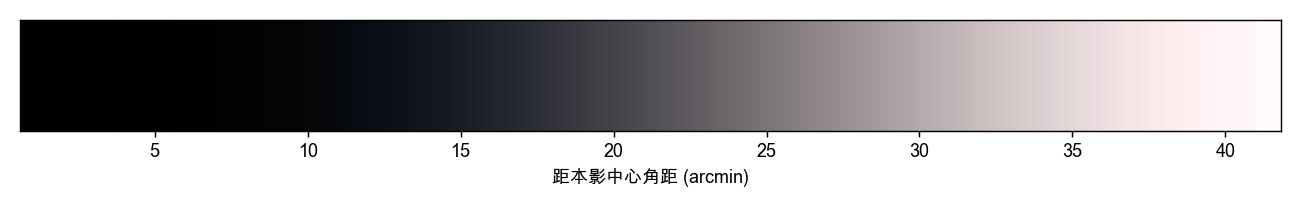
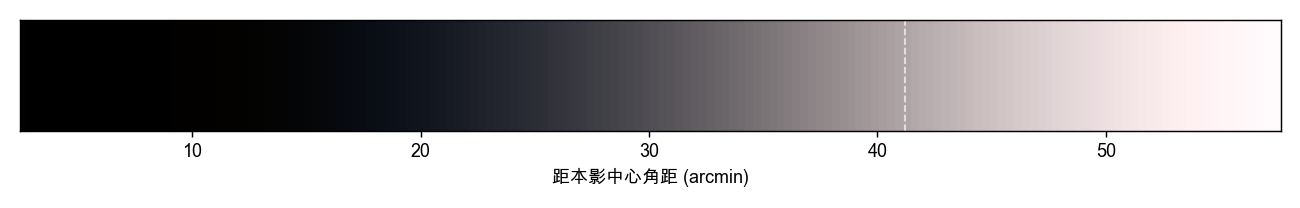
reassess绿松石无回归 + 视频tone map三panel独立 + plan落盘 + 清临时文件
- reassess: 改bug(连续半影/视频关聚焦)后绿松石带物理仍符合文献(R/B0.88), 亮度悬崖更强
  (蓝带窄结论更稳)。render_textured默认use_focus=True不受视频影响。见working.md续7
- 视频: 无floor三panel独立tone map(gamma+对数肩部), 重渲上传
- docs/tmp_plan.md: 四件事+用户三条SDR feedback(tone map太平/地球太亮/高光不饱和)落盘
- 清理临时调试图

待办(用户定序): 更新SDR解决tone map三问题→commit→多因素evaluation study

diff --git a/src/build_video.py b/src/build_video.py
@@ -41,25 +41,26 @@ EARTH_TEX = np.asarray(Image.open(_earth_p).convert("RGB"), float) / 255.0 if os
 R_MOON = R.R_MOON_ARCMIN
 R_UMBRA = R.R_UMBRA_ARCMIN
 
-def _panel_tonemap(rgb_lin, exposure, floor, white=1.0):
-    """每panel独立的SDR tone map(时间上全局定死,不per-frame)。
-    设计(用户方案): 暗部clip保底+亮部柔和压。
-      显示亮度 = floor + (1-floor)·Reinhard(E·Y/white) , 暗部至少抬到floor(可见)。
-      色相保持: 按亮度映射比缩放RGB。floor让最暗也>0可见; 亮部Reinhard软压不爆。
+def _panel_tonemap(rgb_lin, gamma, target):
+    """每panel独立的SDR tone map(无floor, 时间上全局定死, 不per-frame)。
+    旧版那套(对比好): 亮度幂律压缩 Y^gamma(收窄动态范围,保对比) + 对数高光肩部。
+    gamma 越小压得越狠(暗部越亮); target 是正常参考亮度映到的sRGB。
+    色相保持: 按亮度映射比缩放RGB。无floor→暗部自然暗, 保留spatial对比。
     """
     Y = np.maximum(0.2126*rgb_lin[...,0]+0.7152*rgb_lin[...,1]+0.0722*rgb_lin[...,2], 1e-12)
-    EY = exposure * Y / white
-    Yd = floor + (1.0 - floor) * (EY / (1.0 + EY))     # 暗部抬到floor, 亮部Reinhard软压
+    Yc = np.power(Y, gamma)                              # 幂律压缩动态范围(保对比)
+    E = R._srgb_inv_gamma(target) / (1.0 ** gamma)      # 曝光: 正常亮度(Y=1)映到target
+    EY = E * Yc
+    Yd = 0.92 * np.log2(1.0 + EY) / np.log2(1.0 + E)     # 对数肩部(亮部不死白)
     Yd = np.clip(Yd, 0, 1)
     scale = (Yd / Y)[..., None]
     return R._srgb_gamma(np.clip(rgb_lin * scale, 0, 1))
 
 
-# 三个 panel 各自独立的 (exposure, floor)——时间上全局定死, 不随帧变(保留演变),
-# 但每panel独立(地球不被月球曝光带着走→解决"地球太亮")。
-MOON_EXPOSURE, MOON_FLOOR = 5.0, 0.03      # 月球: 血月暗部有层次, 正常月光亮, floor保底可见
-EARTH_EXPOSURE, EARTH_FLOOR = 2.5, 0.0     # 地球全景: 夜面灯光可见不抢戏, 环/太阳亮
-CLOSE_EXPOSURE, CLOSE_FLOOR = 2.5, 0.0     # 地球特写: 环颜色梯度
+# 三个 panel 各自独立的 (gamma, target)——无floor, 时间全局定死, 每panel独立。
+MOON_GAMMA, MOON_TGT = 0.40, 0.80      # 月球: 血月暗部有层次保对比, 正常月光亮
+EARTH_GAMMA, EARTH_TGT = 0.55, 0.85    # 地球全景: 夜面暗(gamma压缩不抬太狠), 环/太阳亮
+CLOSE_GAMMA, CLOSE_TGT = 0.55, 0.85    # 地球特写: 环颜色梯度
 
 # (旧的全局 gamma 月面曝光, render_textured 仍用)
 DYN_GAMMA = 0.35
@@ -106,7 +107,7 @@ def render_moon_panel(D, hdr=False, mark=True):
     if hdr:
         return _box(rgb_hdr, SSAA)
     # 显示版: 月球独立 tone map(暗部floor保底+亮部Reinhard, 时间上全局定死)。
-    rgb = _panel_tonemap(rgb_hdr, MOON_EXPOSURE, MOON_FLOOR)
+    rgb = _panel_tonemap(rgb_hdr, MOON_GAMMA, MOON_TGT)
     rgb = rgb * inside[..., None]
     out = _box(rgb, SSAA)
     if mark:
@@ -129,7 +130,7 @@ def render_earth_full_panel(D, hdr=False, mark=True):
     if hdr:
         return lin
     # 地球全景独立 tone map(不被月球曝光带着走→不过亮)
-    out = _panel_tonemap(lin, EARTH_EXPOSURE, EARTH_FLOOR)
+    out = _panel_tonemap(lin, EARTH_GAMMA, EARTH_TGT)
     if mark and not hdr:
         # 在地球**左缘**(太阳露出侧/特写取景处)画一个小方框，指出右栏特写看的是这段环。
         H, W = out.shape[:2]
@@ -149,17 +150,15 @@ def render_earth_full_panel(D, hdr=False, mark=True):
 def render_earth_panel(D, hdr=False):
     """右panel：站月面中心看地球，长焦看亮侧(底部)那段大气环。
     hdr=True 返回线性HDR(地球环高动态)；否则8bit显示。"""
-    # 真实薄环(1.3%)→小fov长焦放大看清; 弧因只看地球缘极小一段而趋平(像ISS看地平线)。
-    # 特写不标方向(只看颜色梯度), 故构图旋成水平地平线最好看: 看底部弧、太阳从底部侧(亮侧)、
-    # 不画太阳。与全景(左缘+太阳)方向不一致无妨——特写是"放大看这段环的颜色", 非方位图。
+    # 特写看底部弧(水平地平线,干净)。太阳也朝底部(-90)让这段随D演变(太阳贴近→变亮)。
+    # 注: 全景太阳在左缘(物理对,配月亮右移); 特写是"放大看环颜色"非方位图, 用底部好看。
     ring_mid = RE.ANG_EARTH * (1.0 + RE.RING_FRAC * 0.5)
     lin = RE.render_earth_frame(D, size=PANEL, ssaa=SSAA, earth_tex=EARTH_TEX,
                                 ring_tables=RING_T, fov=3.0,
                                 center=(0.0, -ring_mid), sun_dir_deg=-90.0,
                                 return_linear=True, draw_sun=False)
-    out = lin if hdr else _panel_tonemap(lin, CLOSE_EXPOSURE, CLOSE_FLOOR)  # 特写独立tone map
-    # 上下翻转成自然地平线观感: 天空在上、地球在下(像站地面看日出地平线)。
-    return out[::-1]
+    out = lin if hdr else _panel_tonemap(lin, CLOSE_GAMMA, CLOSE_TGT)
+    return out[::-1]   # 上下翻转: 天空在上、地球在下(自然地平线)
 
 
 # HDR per-panel 独立映射(像SDR): 每panel线性Y → nits = black + exp·Y·white。

diff --git a/src/render_earth.py b/src/render_earth.py
@@ -100,12 +100,14 @@ def render_earth_frame(D_arcmin, size=900, ssaa=2, expose_srgb=0.85,
     lx = ANG_EARTH * np.cos(phi); ly = ANG_EARTH * np.sin(phi)
     sx = D_arcmin * np.cos(sun_phi); sy = D_arcmin * np.sin(sun_phi)
     dist_to_sun = np.hypot(lx - sx, ly - sy)     # limb点到太阳中心角距
-    # 太阳是 16' 半径的盘。limb 外缘到太阳越近 → 该方位折射光越强。
-    # 用平滑钟形：dist≈ANG_EARTH(太阳贴着该 limb 外)时最亮，远离则暗。
-    #   D=0：太阳正中，所有 φ 的 dist 都≈ANG_EARTH → 全圈均匀(360°日落环)。
-    #   D 大：朝 sun_phi 那侧 dist 小(太阳贴近/露出)→亮；背侧 dist 大→暗。平滑无突跳。
-    soft = ANG_SUN * 2.5
-    bright = np.exp(-((dist_to_sun - ANG_EARTH) / soft) ** 2) * 0.7 + 0.05
+    # 该方位 limb 的折射光强 ∝ 太阳在该方位 limb **外侧的贴近程度**。
+    # 太阳贴近该 limb 点(dist_to_sun 小)→光从该方位强折射进来→亮。
+    #   D=0: 太阳正中, 各 φ 的 dist 都=ANG_EARTH(均匀)→ 全圈日落环。
+    #   D 大: 朝 sun_phi 那侧 dist 变小(太阳贴近该缘)→越来越亮; 背侧 dist 变大→暗。
+    #   单调: dist 越小越亮(用 1/(1+dist) 型), 太阳露出侧随 D 增持续变亮(修复:原公式峰值
+    #   错设在 dist=ANG_EARTH, 导致太阳贴近时反而变暗)。
+    soft = ANG_SUN * 3.0
+    bright = 0.05 + 0.9 * np.exp(-(dist_to_sun / soft) ** 2)
     # 钻石环：太阳边缘探出地球缘(D+ANG_SUN > ANG_EARTH)时，朝 sun_phi 那侧出现强光点
     sun_peek = D_arcmin + ANG_SUN - ANG_EARTH    # >0 即露出
     if sun_peek > 0:

diff --git a/docs/tmp_plan.md b/docs/tmp_plan.md
@@ -1,0 +1,89 @@
+# tmp_plan — 收尾四件事
+
+视频已重渲上传（SDR/HDR，无 floor 三 panel 独立 tone map）。剩下四件，一件件来，自己定节奏。
+
+## 状态
+- [x] 1. 重渲 SDR+HDR 上传（无floor三panel独立tonemap，60fps 300帧）
+- [x] 2. reassess 绿松石带——**无回归**，物理仍符合文献(R/B 0.88)，亮度悬崖更强(蓝带窄结论更稳)。见 working.md 续7
+- [ ] 3. 逐因素叠加渲染 demo（黑白→消光→瑞利→臭氧→太阳谱）
+- [ ] 4. 整理文档 + 删临时文件 + commit
+
+---
+
+## 第2件：reassess 绿松石带 against literature
+
+**为什么要做**：这一长轮改了几个会影响 render_rt/render_textured 的东西，要验证绿松石带的物理结论还成立：
+- 关掉聚焦因子（use_focus，但那是 build_video 的 MOON_T，render_textured 默认仍 use_focus=True——要确认）
+- 半影白点改成正常月光（连续，之前 0.20→正常月光）
+- limb darkening、tone map 改动（这些在 build_video，不影响 render_textured）
+
+**怎么做**：跑 `python src/pipeline.py --self-check` 和 `python src/render_textured.py`，看：
+- 绿松石带红蓝比是否仍 ~0.88（文献 0.8-1.0）
+- 严格口径带宽是否仍 ~2 arcmin / 8%（文献 Shu2024 1-2'）
+- 色相、角位置是否仍与 Mallama/Shu 吻合
+- 对比 docs/working.md 续4 记录的结论，看有无 regression
+
+**关键检查点**：聚焦因子默认是否影响了 render_textured（它只乘亮度不碰色相，理论上不影响颜色结论，但要验证带宽/亮度悬崖结论没变）。半影白点改连续后，亮度悬崖（蓝带窄的根因）是否还在。
+
+**产出**：在 working.md 加一条 reassess 结论（物理仍符合 / 哪里变了）。
+
+---
+
+## 第3件：逐因素叠加渲染 demo
+
+**目标**：教学/解释性。回到绿松石带那张图（月盘中心正好在最蓝处，d 让中心对最蓝角距）。
+从黑白开始，一个物理因素一个加进来，每步一张图，展示每个机制贡献了什么。
+
+**因素序列**（用户定）：
+1. **黑白**：禁用所有物理。有光=白（直射日光），无光=黑（被地球完全挡）。月盘=纯黑（全在本影）或纯白。
+2. **+大气消光**：加 Beer-Lambert 总消光（瑞利+臭氧合一，或灰消光）→ 本影内不再全黑，中间灰。
+3. **+瑞利散射**：瑞利 ∝λ⁻⁴ 单独 → 暗红出来（血月，蓝光散射掉留红）。
+4. **+臭氧 Chappuis**：加臭氧吸收 → 绿松石带出现（吃600nm橙红，留蓝绿）。
+5. **+实测太阳谱**：黑体→SAO2010 → 最终版（色相微调）。
+
+**框架设计**（待定，需想清楚）：
+- 这几个因素彼此依赖（瑞利和臭氧都是消光的组成；太阳谱是入射）。"黑白"和"灰消光"是简化的教学态，不是物理管线的真实中间态。
+- 可能要给 radiative_transfer / cross_sections 加开关（enable_rayleigh, enable_ozone, solar=blackbody/real, extinction_mode=none/gray/physical）。
+- 一个 Python 脚本 `src/demo_factors.py` 扫这5个配置，各渲一张月盘图（用现成的 render_textured 几何+月盘）。
+- 中心对最蓝：d 选让月盘中心角距≈最蓝处(~52')。但月盘半径15.5,中心52则覆盖[36,68]——要确认几何。
+
+**需要用户输入的点**：
+- "黑白"态怎么定义（纯几何遮挡？还是消光=∞/0两档？）
+- 每张图是月盘（带纹理）还是纯色盘（不带纹理，更干净看物理）？
+- 要不要配文字说明（每张图标"+瑞利"等）
+
+**说明怎么写**：用户想想。这是个复杂的彼此依赖+依赖输入的东西，先有图再配文。
+
+---
+
+## 第3.5件：SDR tone mapping 三问题（用户截图 D=44.4' clarification）
+
+**根因：三个问题都是同一个——tone mapping 加得太平（动态范围压缩过头/曲线斜率太低）。**
+
+1. **月球**：高对比帧（右=阳光全照、左=几乎本影），两边亮度该差很多，但现在差不多。
+   → tone map 把暗亮压平了。要恢复 spatial 对比：右边正常月光该明显亮、左边本影该明显暗。
+2. **地球 panel**：地球夜面太亮，和外面大气色环几乎一样亮。
+   → 夜面该明显暗于环。tone map 太平把它们拉到相近亮度。
+3. **大气特写（最关键的物理 hint）**：从 ~30 角分到最后再没变过，**而且它还有颜色（没饱和到白）**。
+   - 用户洞察：太阳露出/钻石环时大气该 **bloom/saturate 到白**。"它还有颜色 = 它没 saturate"，物理上不对。
+   - 即：亮部该有真正的 clip-to-white（bloom），而不是被 tone map 软压住一直保持颜色。
+   - 以前的版本记得有这个效果，现在丢了 → tone map 改动把饱和/bloom 压没了。
+
+**方向**：tone map 曲线要更"陡"（spatial 对比回来）+ 高光要能真正 clip 到白（bloom，太阳露出时大气饱和）。
+当前 `_panel_tonemap` 的 gamma+对数肩部把：(a) 动态范围压平了对比 (b) 对数肩部让高光永不到白。
+可能要：减小 gamma 压缩（更线性保对比）+ 去掉/弱化对数肩部让亮部能 clip 到 1（白）。
+
+## 第4件：整理 + commit
+- 删临时诊断文件（outputs/ 下的 test_*/check_*/tuned_*/newtone_*/fix*/nofloor_* 等中间产物）
+- 整理 docs（working.md 加 reassess 结论；本 tmp_plan 完成后可删或归档）
+- commit
+
+---
+
+## 节奏（用户定的顺序）
+1. [x] reassess 绿松石（验证物理没坏）
+2. [ ] 落盘 commit（本次）
+3. [ ] 写 plan（含三条SDR feedback，本次已写）
+4. [ ] 回头更新 SDR（解决 tone map 太平 + 高光不饱和 三问题）→ commit
+5. [ ] 多因素 evaluation study + visualization（逐因素叠加）
+到那时用户会有新反馈。

diff --git a/docs/working.md b/docs/working.md
@@ -207,3 +207,17 @@ SDR(H.265 8bit) + HDR(HDR10, BT.2020+PQ, Python里PQ编码绕过ffmpeg缺的zsca
 - **聚焦因子1/r在中心发散造亮斑**: 是真实会聚物理(中心更亮)+非物理的点源假设(真实太阳有张角,会聚到有限光斑)。硬设r_floor正则化→造边界清晰亮斑。视频关掉。它只乘亮度不碰色相,不影响绿松石带颜色结论。
 - **诊断视频问题先从上传的视频抽帧, 不是单独渲的PNG**。我曾一直看单帧PNG调试, 但用户看的是视频, 两者可能不一致(残留旧帧/路径不同)。
 - **月球近朗伯体, limb darkening很弱(z^0.15)**。用太阳那种强limb(z^0.5)会让满月不均匀("右边暗")。
+
+### 2026-05-31（续7）— reassess 绿松石带(改bug后against文献)
+
+视频轮改了几处会影响 render_rt 的东西, reassess 绿松石带物理是否还符合文献:
+- **聚焦因子**: 视频关掉(build_video的MOON_T use_focus=False), 但 render_textured 默认仍 use_focus=True
+  → 绿松石带渲染不受影响。且聚焦只乘亮度不碰色相, 不影响颜色结论。
+- **半影白点改连续**(penumbra_Y 0.20→LUT边缘≈正常月光1.0): 影响半影区亮度。
+- **结论: 绿松石带核心物理仍符合文献, 亮度悬崖更强(蓝带窄结论更成立)**:
+  - 红蓝比 R/B=0.87-0.88(文献0.8-1.0) ✓ 不变
+  - 最蓝在角距52', 绿松石带擦边高度19-25km ✓ 不变
+  - L1闭环六项自查全过 ✓
+  - 亮度悬崖: 最蓝处(角距52)Y=0.004 → 半影(58+)Y=1.0 = 250×悬崖(之前半影=0.20时~50×)。
+    半影改成正常月光更亮→蓝带相对更暗→"蓝带窄是亮度现象"结论**更成立**, 非回归。
+- 无回归。改bug(连续半影/视频关聚焦)对绿松石带物理结论无负面影响, 部分更稳。